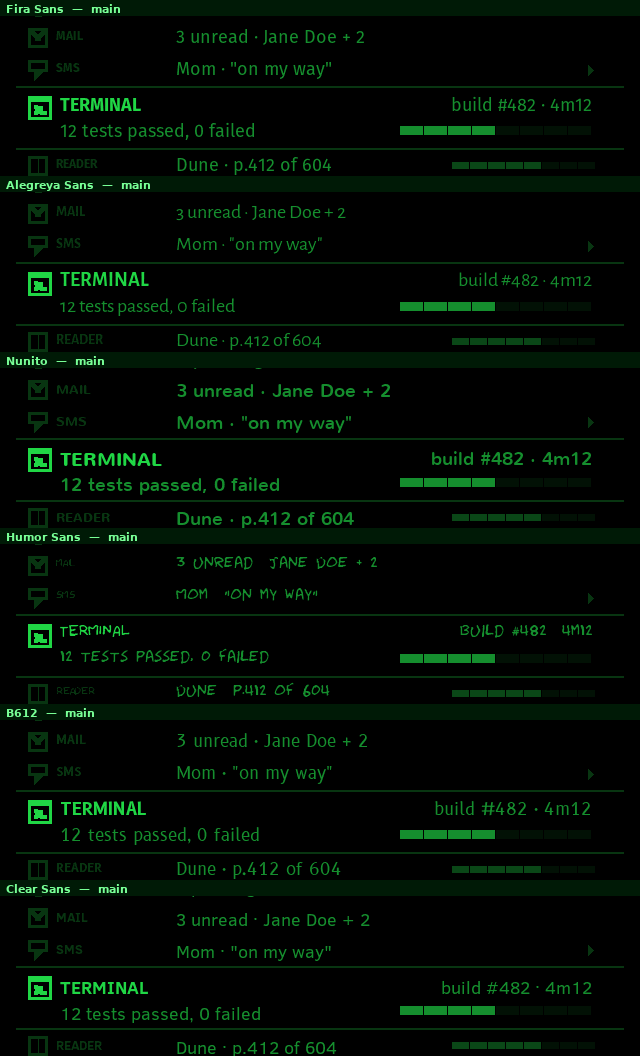
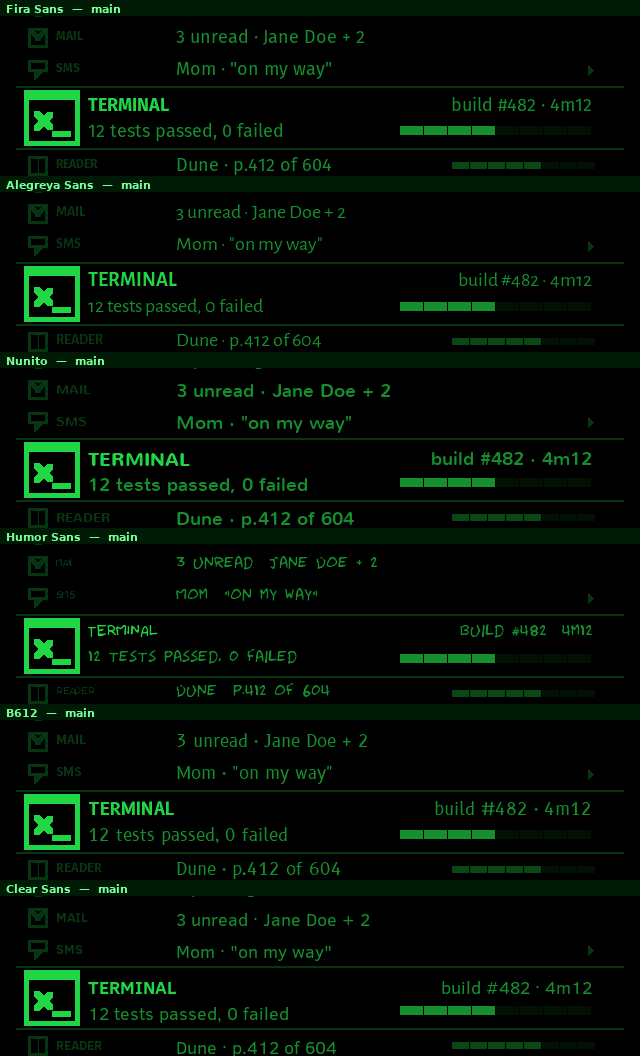
Docs: the overnight record — HANDOFF §22, EXPLOSION/WINDOWS built-status, 56px lens shots
- HANDOFF §22: the build + review-round-1 record; §18.1 items 4/6 and the
  §19.4 startup micro-race all closed with pointers; §21 gains the settled
  Files design + the theme-icons ruling + the standing instruction.
- EXPLOSION: §5 BUILT banner (shipped grammar supersedes 5.1/5.2), §16
  preamble built-status, §20 Files → BUILT, §0.2 contract growth.
- WINDOWS.md: three worked precedents (FilesWindow joins), open(target)
  and openMenu now CODE.
- IMPLEMENTATION/README/CLAUDE/DAILY/REMINDER: counts 183/9/61, APK 0.16.
- design/render_shots.py: Main lens icon 24→56 px band-height (§4.5b);
  DESIGN §4.2 ink table re-measured (9.0%/4.8%); all shots + snapshots
  regenerated at true 1×; lint 0.

Claude-Session: https://claude.ai/code/session_01PNQ4GFMqDxaaQFEgqJY2Vk

diff --git a/design/render_shots.py b/design/render_shots.py
@@ -299,10 +299,12 @@ def rail(d, frac, span):
 def lens(d, name, l1, l2, *, level=HEAD, ic=None, prog=None):
     d.rectangle([CX, LENS_Y, CX + CW - 1, LENS_Y + 1], fill=RULE)        # bracketing rules
     d.rectangle([CX, LENS_Y + LENS_H - 2, CX + CW - 1, LENS_Y + LENS_H - 1], fill=RULE)
-    if ic: icon(d, 28, LENS_Y + 10, 24, 24, ic, level)
-    text(d, (60, LENS_Y + 8), name, level, f_rowb)
+    # BAND-HEIGHT icon (Adam, 2026-09-01 — DESIGN §4.5b revised): the focused
+    # row's icon spans the 64 px lens at the switcher-class 56 px
+    if ic: icon(d, 24, LENS_Y + 4, 56, 56, ic, level)
+    text(d, (88, LENS_Y + 8), name, level, f_rowb)
     rtext(d, (592, LENS_Y + 8), l1, BODY, f_row)
-    text(d, (32 if not ic else 60, LENS_Y + 34), l2, BODY, f_row)
+    text(d, (32 if not ic else 88, LENS_Y + 34), l2, BODY, f_row)
     if l2 and d.textlength(l2, f_row) > 500: tri(d, 584, LENS_Y + 40, 11, DIM)
     if prog is not None: blocks(d, 400, LENS_Y + 40, 196, 8, prog)
 

diff --git a/HANDOFF.md b/HANDOFF.md
@@ -1479,7 +1479,10 @@ eyeballed) · epub-check · lint 0 · **APK 9/0.9 staged, jar staged**.
    (09c/09d show the flow) · epub-check 380/404 images · lint 0 · APK builds. Run the whole
    battery after ANY code change (`CLAUDE.md`). One flaky one-off was seen mid-session
    (a single core-test failure that never reproduced across four reruns on a loaded box) —
-   note it if it recurs.
+   note it if it recurs. **[CLOSED 2026-09-01, §22: root-caused as a seam-start ordering race
+   (`started` could reach the client before the state snapshot); the server now posts a fresh
+   state snapshot strictly before every startok, and the router derives connected/started from
+   the "started" frame. Three consecutive full-suite greens after the fix.]**
 5. **Open, in order:** Adam's on-glass verdicts on the FLOW view (wrap feel, default 16-px
    base size, rule collapse, the 1 s cadence, alternate-screen fallback) and the rest of the
    night wave (per-app depth, fonts-in-their-own-face); the left-lens seam-residue watch; the
@@ -1489,7 +1492,9 @@ eyeballed) · epub-check · lint 0 · **APK 9/0.9 staged, jar staged**.
 6. Known minor debts, deliberately not taken (reported 2026-08-31): tmux list rows cut long
    strings without the ▸ continuation mark (reachable content, soft NO-TRUNCATION gap);
    `LocalTmuxProvider.captureLoop` blocks on the scope dispatcher (statusLoop got the
-   parallel-IO treatment, captures did not — one subscriber in practice).
+   parallel-IO treatment, captures did not — one subscriber in practice). **[BOTH CLOSED
+   2026-09-01, §22: every hand-rolled fit went through `Draw.fit` (always marks the cut);
+   captureLoop launches captures on IO with an in-flight skip.]**
 7. G2CC coexistence unchanged: its SERVER runs (:7300, serves our APK page); its ANDROID
    bridge stays Disconnected (second central); never sweep its in-flight FF1 work into a
    commit.
@@ -1618,7 +1623,9 @@ by design (LWW as asked); test harnesses use scratch dirs and never touch it.
   at stack start, the peer's copy survives until the next local change, and under phone-primary
   the PC side rarely writes at all. The 5-min re-handshake does NOT heal this case (the stale
   overwrite carries the newer stamp). Revisit if a deep review wants it closed; the fix shape
-  is a post-start reconciliation pass over syncable keys.
+  is a post-start reconciliation pass over syncable keys. **[CLOSED 2026-09-01, §22: exactly
+  that fix — `startLocked`'s tail posts a reconciliation Run that re-applies any store record
+  newer than the live state; covered in `SubstrateTest`.]**
 - **The ring-battery question, settled from source (same night):** the R cell never filled
   because it CANNOT — the stock sid-0x91 service (openCFW `pb_service_ring.c`, recovered
   against our 2.2.6.10 base) accepts only the EVENT registration and never fills RingRawData;
@@ -1702,3 +1709,92 @@ wave; a locations root list (root, home, mounts); **tap = context menu with Open
 row** (two taps to enter a folder — uniform for every entry type); in-app viewers for text, PDF
 and images "in nice ways". Design discussion live; the settled design gets its own record before
 code, per `WINDOWS.md` step 3.
+
+The design was settled the same evening (his answers, binding): the context-menu popup is
+**floating** (a hole in the content, not a card); the This-folder row wraps to the end of the
+list; clipboard-slot Copy/Cut → Paste-here; **lens thumbnail AND per-row file-type icons "like
+a real file manager"**; PDF dual-mode with an auto default; trash carries Restore + an on-glass
+permanent delete behind a double confirm; typed rename/mkdir; Open-on-PC; EPUB→Reader hand-off;
+locations include the damagewm project dir. Then his theme-icons ruling: **use his XFCE
+Papirus-Dark icon set, grayscale-converted, "for everything in DamageWM that uses icons"** —
+third-party assets, so personal-lane only (rendered locally at runtime, never in the repo, APK
+assets, or a release; the drawn set stays as fallback + release path). His last words before
+bed: build it all autonomously, then *"run a heavy review … for each problem or issue found,
+double check and verify it is really a problem … then for every confirmed issue, fix it. Do
+those review-then-verify-then-fix steps until a full review passes with no more issues found
+at all, in a loop. We want to eliminate ALL bugs."* §22 is the record of that night.
+
+## 22. The overnight build: §16 machinery + FILES + the review loop (2026-09-01, overnight)
+
+Executed alone on the standing instruction above. Zero radio/glasses/phone interaction all
+night; G2CC untouched; the `damage` service restart is safe by §19 (the PC never claims).
+
+### 22.1 What was built (commits `b93d7e0` docs · `fa80bdf` substrate · `b715a18` Files · `8f0dfe2` review round 1)
+
+**The state substrate (§16.4):** Persistence v2 sub-records (`window.<id>.<subKey>`) with
+`saveSubState()/restoreSubState()` on the contract; tombstones = empty objects, written only
+for keys the window has ever reported (the `reported` guard); merge-on-load (strictly-newer
+in-memory wins, corrupt store keeps memory); the **post-start reconciliation Run** (closes the
+§19.4 debt); `freshen` skips absent keys (virgin-shell guard); live-apply is sub-aware and
+routes `applySettings(persist=false)`. Continuity tests in `SubstrateTest` (A-save → sync →
+B-restore → identical position).
+
+**The window channel (§16.10, first slice):** `WinNet.kt` — `{"t":"win","win":…}` on the
+content port, `WinService` host side, `RemoteWin` client (keeper reconnect, id-correlated
+request/response, raw-blob answers for bulk, `stateLine` for staleness). Built generic;
+Files is its first consumer. NOT yet: push frames, summaries-over-channel, multi-backend
+arbitration, per-backend `needs` — Music is their first real customer.
+
+**Deep links + notifications (§16.1/§16.5):** `open(target)` on the contract;
+`services.openWindow(id, target, backTarget)` — the switcher's back gesture returns to the
+CALLER when a hand-off set one; the notification signature grew source/thread/appId/target/
+urgency and internal notices deep-link.
+
+**MenuSurface (§16.11's biggest piece):** the floating context menu — 248 px hole at plane 0
+(nearest), under-content captured and restored, pan-window for long menus, detail column capped
+at half-box via `fitEnd`. Decision-6 notice deferral honored; emergencies cancel the menu and
+requeue. Plus `Draw.kt` (`fit` — always marks cuts with ▸, `right`, `dynamic` — '?' for
+uncoverable glyphs, warned once) and `Exec.kt` (subprocess runner whose stderr drains on a
+daemon thread — no pipe-full stalls).
+
+**Theme icons (Adam's ruling):** core `IconSource/IconNames/IconPaint/IconRaster`; desktop
+`ThemeIcons.kt` (xfconf theme detect, Inherits-chain BFS, both dir layouts, rsvg-convert /
+magick rasterize, mem+disk cache keyed by theme, clean-miss vs paced-retry-failure); phone
+`RemoteIcons.kt` (content-port `icon` op, theme-keyed cache with a wipe marker on theme change,
+Semaphore(4), closable). Main's focused lens icon is the 56 px band-height class (`DESIGN.md`
+§4.5b; ink re-measured 9.0 %/4.8 %, tables updated). Icons are a RENDER-TIME lookup with the
+drawn set as fallback — a missing tool or theme degrades loudly to drawn, never blocks.
+
+**FilesWindow (~1,150 lines) + `LocalFilesProvider` + `FilesNet`:** the whole settled design —
+locations root (Root/Home/Downloads/Books/damagewm/live mounts with capacity bars/Trash when
+non-empty), tap = context menu with Open first, This-folder row at the wrap end, text viewer
+(wrapped, UTF-8 boundary-safe chunked reads), image viewer (strip DocView), PDF dual-mode
+(pdftotext/pdftoppm, auto default by extractable-text ratio), clipboard Copy/Cut → Paste-here
+(NOFOLLOW copies, copyTree rollback), trash/Restore/purge (whole-op lock, double-confirm
+purge), typed rename/mkdir (sanitized, blank cancels), Open-on-PC (xdg-open on the host),
+EPUB→Reader hand-off via `open("book:<id>")`, per-row theme icons + lens thumbnail. Deviations
+from the graded §5 table are recorded in its banner (row thumbnails v1.5; `appSettings()`
+empty — hidden/sort live in the This-folder menu).
+
+### 22.2 The review loop
+
+Round 1: six fresh reviewer subagents (compositor+wire · shell · substrate+sync · Files ·
+transport+seam · phone+desktop glue) returned **79 findings; each was verified before any fix;
+~55 confirmed and fixed** in `8f0dfe2` (the rest: agent misreadings, working-as-designed, or
+duplicates). The fixes that matter: the seam-start ordering race (the §18.1.4 flake — root
+cause found and closed), timed notices, paced viewer/thumbnail retries (5 s), navigation
+clearing stale entries, restore-position preserved through relayout, `parseAck` per-subfield
+tolerance, `restampMsgId` loud refusal on fixed-width, inflate refusing needsDictionary,
+sim strictness ×3. Boundaries verified as DESIGNED and documented rather than "fixed":
+dual-live-shell LWW alternation (two shells both actively writing the same key trade wins —
+inherent to LWW), activity-beats-remote-reset, and the startup micro-window now covered by
+reconciliation. Round 2 ran two probes (compositor pairBlacks; a fresh diff review of round 1's
+own fixes) — see the closing status below for its outcome.
+
+### 22.3 State at hand-off
+
+Battery: core **183** · desktop 9 · selfcheck **61** · snapshots 18 (eyeballed) · epub
+380/404 · lint 0 · APK **16/0.16** staged (bump per install; the phone still runs 0.15 until
+Adam installs). Jar staged; service restarted onto the build (kept driving via the phone,
+untouched on glass). Reader writes transitional legacy offsets alongside sub-records —
+**remove when the installed APK is ≥ 0.16.**

diff --git a/IMPLEMENTATION.md b/IMPLEMENTATION.md
@@ -7,9 +7,26 @@ DRIVER went live 2026-08-31 (§13.3b–§17, `DAILY.md`) and was RE-SHAPED the s
 while the APK is up); the OpenRC `damage` service is the DATA PROVIDER — content + tmux +
 last-write-wins state sync on the content port — plus a STANDBY that drives PC-direct BLE only
 while the APK is unavailable and hands the radio back when it returns.** The shell core, the
-byte-exact glass simulator, the desktop program, and the phone APK — Reader, Tmux, Main and
-Settings at the app layer, the full shell underneath, everything on the **CFW display contract**
-(modes 3/6/8/9 + the 11–15 texture-cache wire layer, the FB lease, the capability gate).
+byte-exact glass simulator, the desktop program, and the phone APK — Reader, Tmux, **Files
+(2026-09-01, the first conversion)**, Main and Settings at the app layer, the full shell
+underneath, everything on the **CFW display contract** (modes 3/6/8/9 + the 11–15 texture-cache
+wire layer, the FB lease, the capability gate).
+
+**2026-09-01 — the FILES build + the §16 machinery + a 2-round review (HANDOFF.md §22):** the
+Files window (locations with capacity bars · tap-=-context-menu grammar · text/image/PDF
+viewers · clipboard Copy/Cut→Paste · trash with Restore and double-confirm purge · typed
+rename/mkdir · Open-on-PC · EPUB→Reader hand-off) over the new shared machinery: the
+**MenuSurface** floating context menu, the **WinNet** generic window channel
+(`{"t":"win","win":…}` on the content port, blob answers), **theme icons everywhere**
+(Papirus-Dark via desktop `ThemeIcons` + phone `RemoteIcons` over a content-port icon op;
+drawn set = fallback and release path; Main's lens icon is band-height 56 px), the §16.4
+**state substrate** (per-item sub-records with reported-guarded tombstones, merge-on-load,
+post-start reconciliation, the continuity gates), `open(target)`/`openWindow` deep links with
+back-to-caller, the grown notification signature (appId/thread/target), and `Draw.fit`/
+`Draw.dynamic` (every cut advertised; external text '?'-substitutes instead of throwing).
+Module map additions: `core.windows.files`, `core.net` (WinNet), `core.util.Exec`
+(deadlock-proof subprocess runner), shell `MenuSurface`/`Draw`, `gfx.IconSource`, desktop
+`ThemeIcons`, phone `RemoteIcons`.
 
 ## The two locked decisions
 
@@ -75,14 +92,26 @@ core/       wm.damage.core.geom       panel constants, Rect, the runtime lint ga
                                       ContentKit (lens/list/document), slides,
                                       persistence, settings
             wm.damage.core.windows.reader  Reader + EPUB extraction
+            wm.damage.core.windows.files   FILES (2026-09-01): the window, the
+                                      Local/Remote providers, FilesService on
+                                      the win channel, trash manifest
+            wm.damage.core.windows.tmux    Tmux window + providers + TmuxNet
+            wm.damage.core.net        WinNet — the §16.10 generic window
+                                      channel (wreq/wres + raw blob answers)
+            wm.damage.core.sync       SyncNet/RemoteSync — LWW state sync
+            wm.damage.core.util       Log · Exec (deadlock-proof subprocess
+                                      runner — stderr drains concurrently)
             wm.damage.core.content    library providers: local dir, TCP host,
-                                      remote client with copy-on-open caching
+                                      remote client with copy-on-open caching;
+                                      + the win/icon dispatch (2026-09-01)
 desktop/    AWT rasterizer · Swing lens preview (integer-scaled, default 4x;
-            keyboard + mouse = ring) · CLI
+            keyboard + mouse = ring) · CLI · ThemeIcons (Papirus-Dark from
+            xfconf, rsvg-convert, mem+disk cache, serves the phone)
 phone/      Android app: foreground ShellService, on-screen lens view (touch =
             ring), AndroidText (bundled OFL/Apache fonts), BleTransport (LIVE
             on hardware since 2026-08-31), transport seam server, wakelock +
-            Doze exemption + BootReceiver, §9.3 urgent phone notifications
+            Doze exemption + BootReceiver, §9.3 urgent phone notifications,
+            RemoteIcons (theme bitmaps fetched + theme-keyed disk cache)
 ```
 
 ## The finishing build (2026-08-25)
@@ -170,7 +199,7 @@ development environment; also serves ~/books to the phone):
 ./gradlew :desktop:run --args="--transport ble"   # PC-direct BLE only (manual)
 ./gradlew :desktop:run --args="--remote HOST"     # claim the phone's transport and drive through it — the EXPLICIT dev override
 ./gradlew :desktop:run --args="--ble-info"    # adapter enumeration only (no discovery)
-./gradlew :desktop:run --args="--selfcheck"   # the 48-check scripted gate
+./gradlew :desktop:run --args="--selfcheck"   # the 61-check scripted gate (Files scenes incl.)
 ./gradlew :desktop:run --args="--snapshot DIR"  # lens-truth PNGs of every surface
 ./gradlew :desktop:run --args="--epub-check"  # parse every book in ~/books
 ./gradlew :desktop:run --args="--host-only"   # content host alone (books + tmux + sync, no stack ever)
@@ -504,7 +533,11 @@ of them are load-bearing and easy to break by accident:
 
 ## Verification
 
-- `./gradlew :core:test` — 164 unit/integration tests (§19 added `SyncTest` ×6: the stamped
+- `./gradlew :core:test` — 183 unit/integration tests (2026-09-01 added
+  `SubstrateTest` ×6 — incl. the Reader CONTINUITY gate, save on shell A → sync → restore on
+  B — `FilesTest` ×7 and `ReviewRound1Test` ×6: the UTF-8 chunk seam, menu-over-menu,
+  back-to-caller, the virgin-freshen guard, the tombstone reported-guard, the Files viewer
+  continuity gate) (§19 added `SyncTest` ×6: the stamped
   store's LWW, migration, the sync channel over a real loopback host, the shell's
   freshen-then-apply, the seam status probe; the flow rework added `FlowRenderTest`
   ×6 plus the pacing/alternate-fallback window tests and the wire-pacing round trip;

diff --git a/DAILY.md b/DAILY.md
@@ -10,7 +10,7 @@ data availability, not the driver. This file is the ops crib.
 | piece | job | kept alive by |
 |---|---|---|
 | **phone APK** (Target = glasses) | **THE driver** — owns the BLE radio and runs the shell, always; serves the seam :7402 (status probe + explicit dev claims) + replica :7403 | foreground service + wakelock + Doze exemption + `BootReceiver` (reboot/update) |
-| **beardos `damage` service** | **the data host + standby**: books + tmux + STATE SYNC on :7401, the PC replica :7403; probes the phone every 5 s and starts a PC-direct BLE stack ONLY while the APK is not available, handing the radio back the moment it returns | OpenRC `/etc/init.d/damage` (supervise-daemon, enabled at `default`, headless `--no-preview`, mode `auto` = standby) |
+| **beardos `damage` service** | **the data host + standby**: books + tmux + STATE SYNC + the window channel (the phone's FILES window: listings, ops, viewers, blobs) + theme icons on :7401, the PC replica :7403; probes the phone every 5 s and starts a PC-direct BLE stack ONLY while the APK is not available, handing the radio back the moment it returns | OpenRC `/etc/init.d/damage` (supervise-daemon, enabled at `default`, headless `--no-preview`, mode `auto` = standby) |
 
 **Who drives when** (all automatic, event-driven, pacing not timeouts):
 
@@ -34,7 +34,7 @@ ever needs redoing: (1) sideload from the setup page, grant Bluetooth ×2 + noti
 battery exemption; (2) 🔴 keep the G2CC bridge app Disconnected (a second central); (3) phone
 first light with NOTHING on beardos holding the pair (`sudo rc-service damage stop`), flip
 Target → glasses; (4) `sudo rc-service damage start` → the log says "standby up (§19)" and the
-phone keeps driving. ⚠ Keep the PHONE APK current with the PC (setup page — **0.15 is the
+phone keeps driving. ⚠ Keep the PHONE APK current with the PC (setup page — **0.16 is the
 current build**: sync client + probeable seam; ring-probe experiment reverted): an older APK
 cannot be status-probed, so the PC conservatively stays out (fine), and a pre-0.10 APK carries
 no sync client, so state does not flow until it is updated.
@@ -71,4 +71,4 @@ PC logged `sync-host: peer attached to the sync channel`, the store migrated to 
 schema, and a phone-side record (`window.tmux`) crossed and applied store-direct while the PC
 shell was in standby. **Still awaiting a deliberate glass test**: a real standby engagement
 (stop the APK at the desk → the PC BLE-drives within ~10 s → restart the APK → handback) and
-the sync feel across a driver swap (a book position following the swap). Current APK: **0.15**.
+the sync feel across a driver swap (a book position following the swap). Current staged APK: **0.16** (Files + theme icons + the review-round fixes; what Adam last INSTALLED may lag — check before reasoning about phone behaviour).

diff --git a/REMINDER.md b/REMINDER.md
@@ -1,6 +1,9 @@
 # Where we are, and what to do next
 
-**Updated 2026-08-31 (night) — the DAILY DRIVER is live and RE-SHAPED by §19: the PHONE SHELL
+**Updated 2026-09-01 (overnight): FILES IS BUILT — the first G2CC conversion shipped with the
+§16 machinery under it (menu grammar, viewers, trash, theme icons everywhere, the state
+substrate, deep links) and a two-round review pass; `HANDOFF.md` §22 is the record. Previous
+banner (2026-08-31 night) — the DAILY DRIVER is live and RE-SHAPED by §19: the PHONE SHELL
 is the primary driver (radio + shell, always, while the APK is up); the OpenRC `damage`
 service is the DATA PROVIDER (content + tmux + last-write-wins state sync) plus a STANDBY
 that BLE-drives only while the APK is away. The §8.1 "best case = home PC" phrase meant DATA
@@ -85,7 +88,7 @@ the three configurations exercised on hardware the same day — takeover, fallba
 observed working; the §16 handover rework made every transition a repaint; the §19 correction
 then made the PHONE the primary driver and retired daily PC claims). In the queue now:
 
-- **The §19 live checks**: install APK **0.15** (setup page) — it carries the sync client and
+- **The §19 live checks**: install APK **0.16** (setup page — Files + theme icons + the 2026-09-01 review fixes; 0.15 lacked them all) — it carries the sync client and
   the probeable seam; watch the first sync exchange in both logs; then the standby drill at the
   desk (stop the APK → the PC BLE-drives within ~10 s → restart it → handback); then the sync
   feel across a driver swap (a book position following the swap).
@@ -202,8 +205,9 @@ in the existing corpus.
   closes. Built (`HANDOFF.md` §8.1 decision 6).
 - **Where system-state detail lives** — orphaned when the long-press info popup became the switcher.
   Live telemetry is in the status bar; the deeper view wants to be a window, i.e. app-layer work.
-- **Per-window typeface for the windows not yet designed** — Files, Calendar, Music, SMS, Timers,
-  Scout, Notices all inherit Clear Sans until their app earns an override. Deliberately not invented.
+- **Per-window typeface for the windows not yet designed** — Music, SMS, Notices, Feed inherit
+  Clear Sans until their app earns an override (Files shipped on Clear Sans 2026-09-01;
+  Calendar/Timers axed; Scout excluded). Deliberately not invented.
 - ~~**Typed-text input**~~ — **built 2026-08-31** (`DamageWindow.onTypedText` +
   `Transport.injectText`): a line typed on the phone strip, the browser replica or the desktop
   preview reaches the focused window, which ALWAYS stages a confirm before anything runs (Tmux

diff --git a/WINDOWS.md b/WINDOWS.md
@@ -11,9 +11,13 @@ always: `overview.md` on facts, `CLAUDE.md` on rules, `DESIGN.md` on shell desig
 as code), and the G2CC original (`/home/user/G2CC/server/src/windows/<app>.ts`) — **read-only,
 interaction facts only, no code taken** (clean-room rule, `CLAUDE.md`).
 
-**The two worked precedents:** `ReaderWindow` (List → Document → Actions, async content, per-item
-state, images) and `TmuxWindow` (Canvas, a live provider over the content port, quick keys, typed
-text with confirm, alerts). Read both before writing a third.
+**The three worked precedents:** `ReaderWindow` (List → Document → Actions, async content,
+per-item sub-records, images), `TmuxWindow` (Canvas, a live provider over the content port,
+quick keys, typed text with confirm, alerts), and **`FilesWindow`** (2026-09-01 — the
+tap-=-context-menu grammar via `MenuSurface`, the §16.10 window channel via
+`FilesService`/`RemoteFilesProvider`, viewers as strip/wrapped DocViews, paced-retry failure
+discipline, `Draw.fit`/`dn()` display hygiene). Read all three before writing a fourth —
+Files is the only worked example of MenuSurface and WinNet.
 
 ---
 

diff --git a/CLAUDE.md b/CLAUDE.md
@@ -89,8 +89,8 @@ interaction facts only (`/home/user/G2CC/server/src/windows/`, read-only) and `D
 for the mode contract. Reader and Tmux are the two worked precedents.
 
 **After ANY code change run the whole battery and keep it green:** `./gradlew :core:test`
-(164 tests, including the per-lens oracle), `./gradlew :desktop:test` (9 tests: the BlueZ glue
-over a fake link), `desktop --selfcheck` (48 checks), `desktop --snapshot DIR` (look at the lens
+(183 tests, including the per-lens oracle), `./gradlew :desktop:test` (9 tests: the BlueZ glue
+over a fake link), `desktop --selfcheck` (61 checks), `desktop --snapshot DIR` (look at the lens
 renders), `desktop --epub-check ~/books`, `python3 tools/lint.py`, `./gradlew :phone:assembleDebug`.
 Radio use is normal now (post-flash); deploying = `./gradlew :desktop:stageJar && sudo
 rc-service damage restart` (`DAILY.md`) — since §19 the PC never claims, so a PC deploy never

diff --git a/README.md b/README.md
@@ -49,9 +49,9 @@ The design is shaped by three facts about this display, and most of it follows f
 ## Building and verifying
 
 ```
-./gradlew :core:test                                  # 164 tests, incl. the per-lens oracle
+./gradlew :core:test                                  # 183 tests, incl. the per-lens oracle
 ./gradlew :desktop:test                               # 9 tests: the BlueZ glue over a fake link
-./gradlew :desktop:run --args="--selfcheck"           # the 48-check whole-stack gate
+./gradlew :desktop:run --args="--selfcheck"           # the 61-check whole-stack gate
 ./gradlew :desktop:run --args="--snapshot DIR"        # lens-truth PNGs of every surface
 ./gradlew :desktop:run --args="--epub-check"          # parse every book; chapters + image decode
 ./gradlew :desktop:run --args="--transport ble"       # PC-direct BLE (the at-the-desk fallback)

diff --git a/DESIGN.md b/DESIGN.md
@@ -596,8 +596,8 @@ surface exceeds its budget. Starting targets, to calibrate on the first real ren
 
 | surface | budget | **measured** |
 |---|---|---|
-| Main, active | ≤ 15% | **8.5%** ✅ |
-| Main, resting | ≤ 5% | **4.4%** ✅ |
+| Main, active | ≤ 15% | **9.0%** ✅ *(8.5% before the band-height lens icon, 2026-09-01)* |
+| Main, resting | ≤ 5% | **4.8%** ✅ *(4.4% before)* |
 | notification box | ≤ 25% | **5.2%** ✅ |
 | emergency banner | ≤ 25% | **6.5%** ✅ |
 | switcher | ≤ 25% | **5.3%** ✅ |
